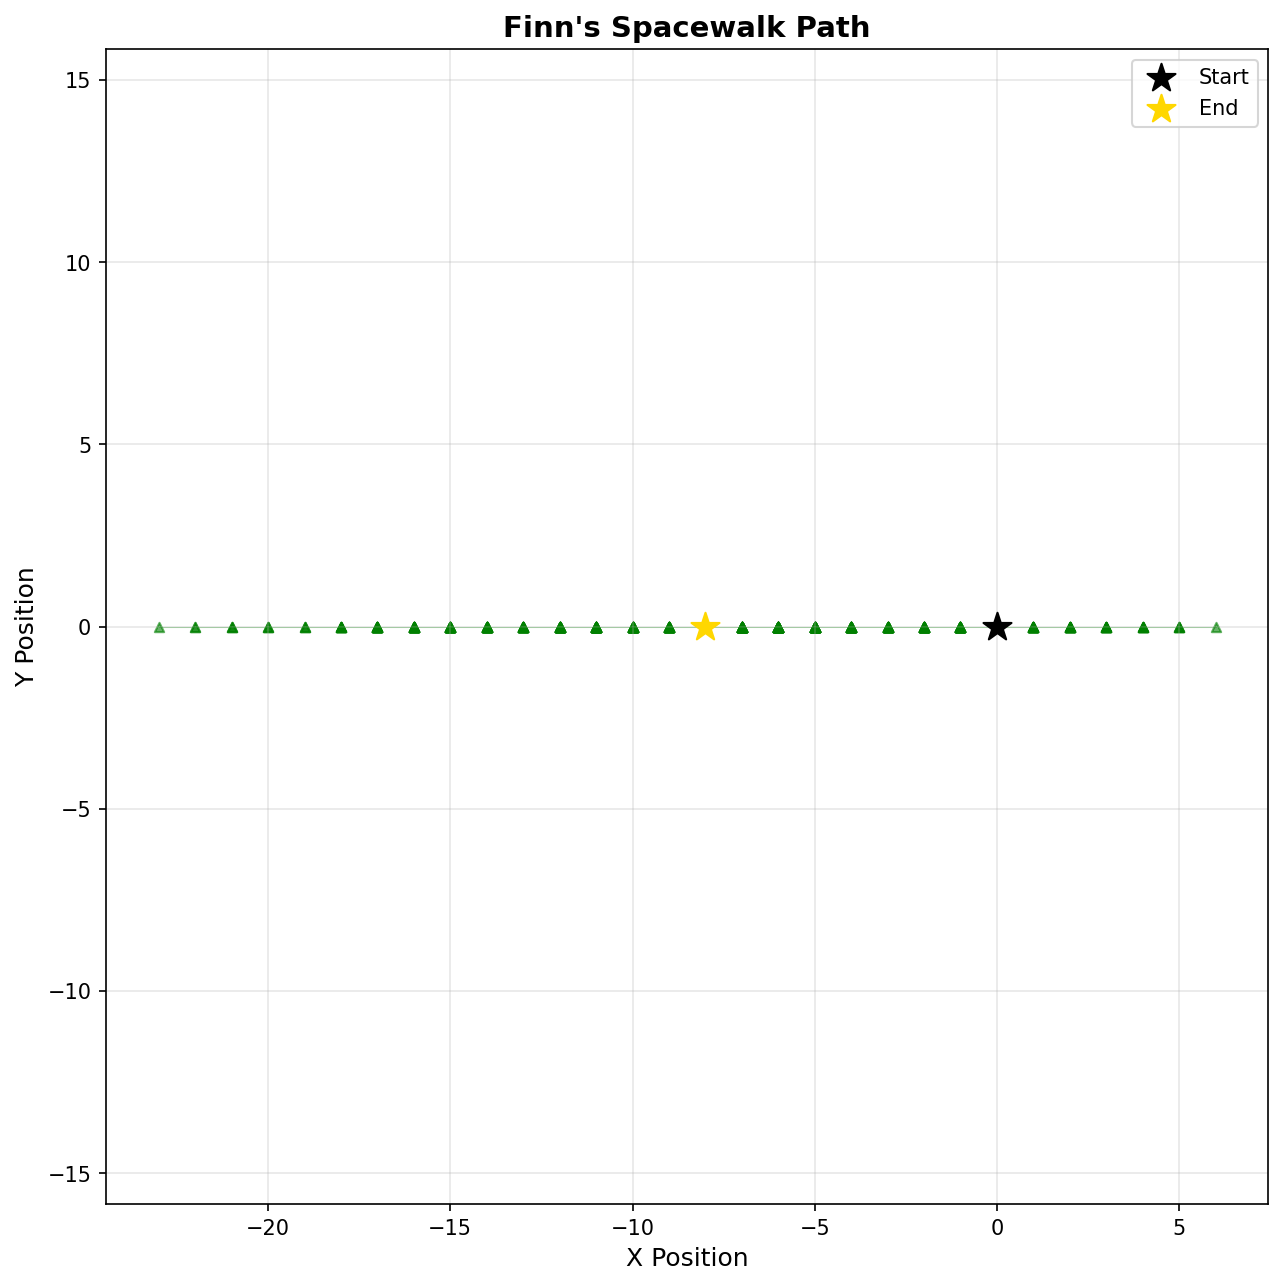
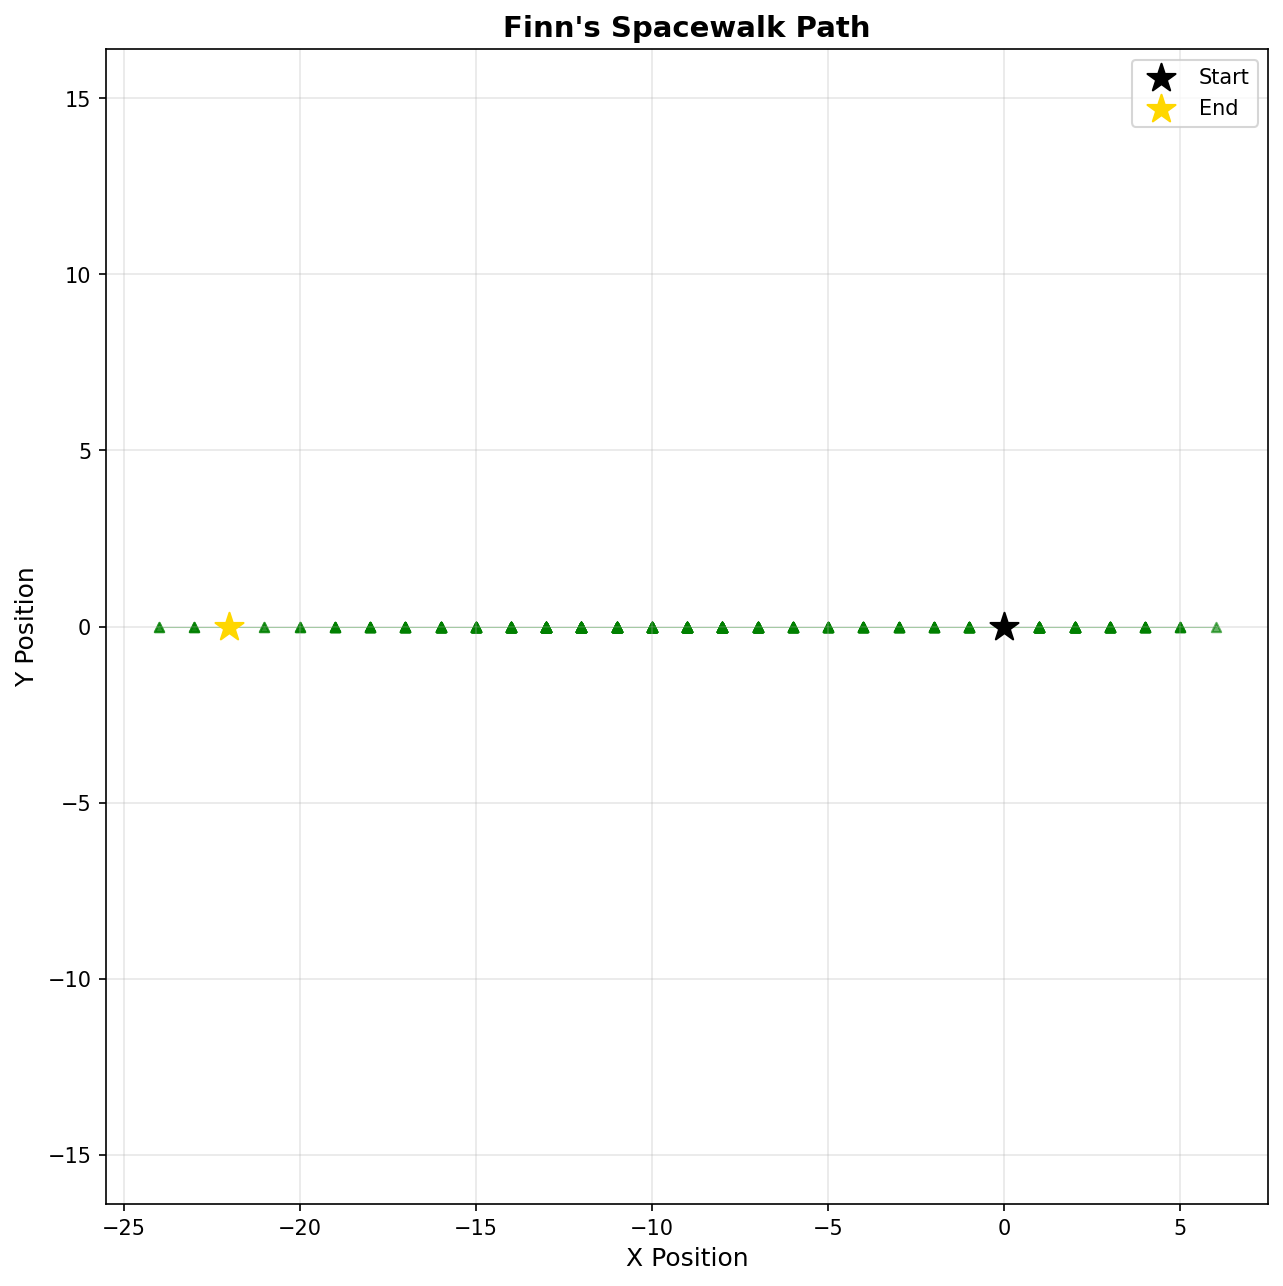
removed print statements

diff --git a/Python CS 1400/Space Walk Simulation/pathfinder_tracker.py b/Python CS 1400/Space Walk Simulation/pathfinder_tracker.py
@@ -109,7 +109,6 @@ def main():
         x_positions.append(item[0])
         y_positions.append(item[1])
     plot_graph(x_positions, y_positions, astronaut_name = "Lance" ,color = "blue", marker = "o")
-    print(astronauts["Lance"])
 
     x_positions = []
     y_positions = []
@@ -118,7 +117,6 @@ def main():
         x_positions.append(item[0])
         y_positions.append(item[1])
     plot_graph(x_positions, y_positions, astronaut_name = "Sophie" ,color = "red", marker = "s")
-    print(astronauts["Sophie"])
 
     x_positions = []
     y_positions = []
@@ -127,7 +125,6 @@ def main():
         x_positions.append(item[0])
         y_positions.append(item[1])
     plot_graph(x_positions, y_positions, astronaut_name = "Finn" ,color = "green", marker = "^")
-    print(astronauts["Finn"])
 
 if __name__ == '__main__':
     main()
